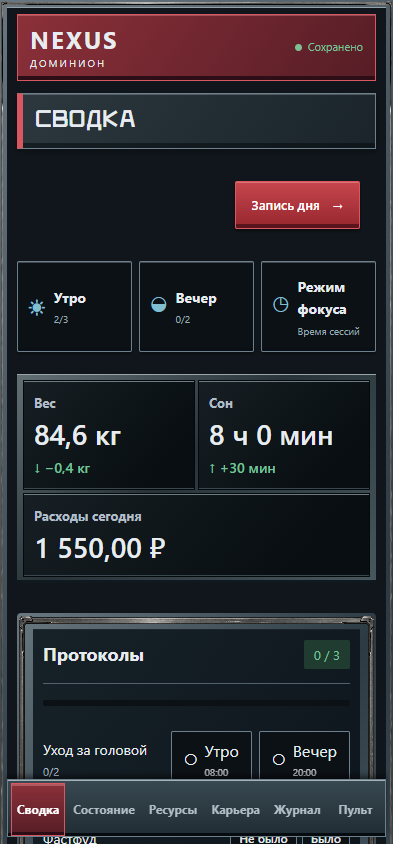
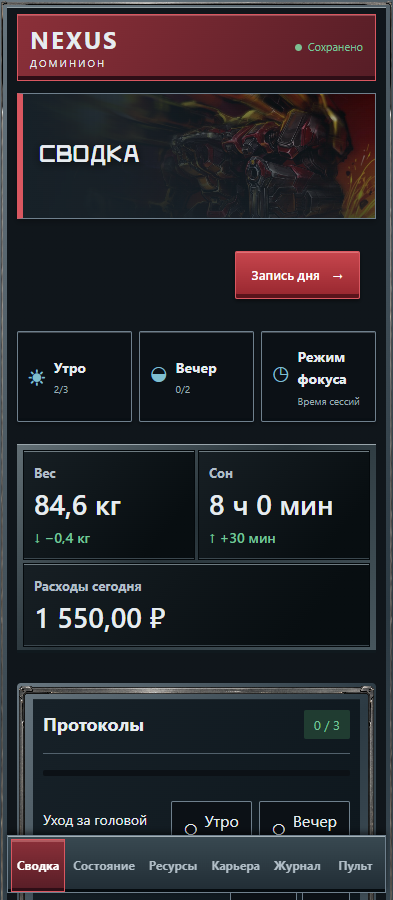
Release Dominion 3.1 with approved Thor heading accent

diff --git a/NEXUS/src/renderer/dominion-material.css b/NEXUS/src/renderer/dominion-material.css
@@ -426,3 +426,40 @@ html[data-theme=dominion][data-platform=android] :is(.card>button,.card .inline>
 /* Mobile base labels have outer margins; checkbox rows keep one 48px target. */
 html[data-theme=dominion] .daily-form .daily-checkbox {margin:0;display:flex;align-items:center;gap:10px}
 html[data-theme=dominion][data-platform=android] .daily-checkbox input[type=checkbox] {min-height:18px;height:18px;width:18px;padding:0;flex:none}
+
+/* User-approved StarCraft accent: packaged locally, limited to Today heading. */
+html[data-theme=dominion] .today-page-head {
+  position: relative;
+  isolation: isolate;
+  overflow: hidden;
+  min-height: 178px;
+  padding: 26px 28px;
+  background: #172128;
+}
+html[data-theme=dominion] .today-page-head::before {
+  content: '';
+  position: absolute;
+  inset: 0;
+  z-index: -1;
+  background: linear-gradient(90deg,#172128 0%,#172128 30%,#172128dc 47%,#17212835 76%,#17212855),
+    linear-gradient(0deg,#172128cc,transparent 45%),
+    url('./assets/thor-header.jpg') right 47% / 700px auto no-repeat;
+}
+html[data-theme=dominion] .today-page-head h1 { text-shadow: 0 2px 8px #000b; }
+html[data-theme=dominion] .today-page-head .button {
+  align-self: flex-end;
+  background: #172128ed;
+  border-color: #7f929e;
+}
+html[data-theme=dominion][data-platform=android] .today-page-head {
+  min-height: 126px;
+  padding: 18px 16px;
+}
+html[data-theme=dominion][data-platform=android] .today-page-head::before {
+  background: linear-gradient(90deg,#172128 0%,#172128ee 28%,#17212899 53%,#17212822 100%),
+    linear-gradient(0deg,#172128bb,transparent),
+    url('./assets/thor-header.jpg') 80% 44% / 380px auto no-repeat;
+}
+@media (forced-colors: active) {
+  html[data-theme=dominion] .today-page-head::before { display: none; }
+}

diff --git a/NEXUS-Android/src/App.tsx b/NEXUS-Android/src/App.tsx
@@ -51,7 +51,7 @@ const monday=(day:string)=>{const date=new Date(`${day}T12:00:00`);date.setDate(
 const habitDone=(habit:Row,log:Row)=>log.status==='done'&&(habit.kind==='avoid'?num(log.value)===0:num(log.value)>=num(habit.target));
 const weeklyComplete=(habit:Row,logs:Row[],day:string)=>habit.period==='weekly'&&logs.some(log=>log.habit_id===habit.id&&str(log.day)>=monday(day)&&str(log.day)<=day&&habitDone(habit,log));
 
-function SectionHeading({title,detail}:{eyebrow:string;title:string;detail?:string}){const navCopy=useNavigationCopy(),id=nav.find(([,label])=>label===title)?.[0];return <div className="heading"><h1>{id?navCopy(id,title,true):title}</h1>{detail&&<p>{detail}</p>}</div>;}
+function SectionHeading({title,detail}:{eyebrow:string;title:string;detail?:string}){const navCopy=useNavigationCopy(),id=nav.find(([,label])=>label===title)?.[0];return <div className={`heading ${id==='today'?'today-page-head':''}`}><h1>{id?navCopy(id,title,true):title}</h1>{detail&&<p>{detail}</p>}</div>;}
 function Card({title,children}:{title:string;children:React.ReactNode}){return <section className="card dominion-frame">{title&&<h2>{title}</h2>}{children}</section>;}
 function Empty({children}:{children:React.ReactNode}){return <p className="empty">{children}</p>;}
 

diff --git a/docs/design/dominion/artwork-candidates-3.1.md b/docs/design/dominion/artwork-candidates-3.1.md
@@ -8,14 +8,16 @@
 
 ## Подборка
 
-Источники проверены 04.10.2026. Это подборка для выбора, файлы не включены в приложение.
+Источники проверены 04.10.2026. Ниже — подборка. Для выпуска 0.7.3 пользователь одобрил отдельную визуальную пробу с другим артом Thor: [источник выбранного изображения](https://www.goodfon.com/games/wallpaper-badfon-starcraft-terran-tor-meh.html). Этот файл включён локально в шапку «Сегодня»; он не приписывается Peter Lee. Остальные кандидаты не включены.
 
 | Вариант | Источник | Применение |
 | --- | --- | --- |
-| Корхал: небоскрёбы и платформы, Thiago Klafke | [Авторское портфолио Legacy of the Void](https://www.thiagoklafke.com/blog/portfolio/starcraft-ii-legacy-of-the-void/) | Основной кандидат CITY: узкий городской фрагмент в верхней части экрана. Стальной фон, индустриальные формы, подсветка окон. |
-| Корхал: жилые здания, Martin Holmberg | [Starcraft LOTV Terrans — авторское портфолио](https://martinholmberg.artstation.com/projects/ykZlx3) | Альтернатива CITY с менее помпезной архитектурой; подходит для бокового акцента. |
-| Менгск и Королевская гвардия | [Официальный материал Blizzard о командире](https://news.blizzard.com/en-us/article/23185584/new-co-op-commander-arcturus-mengsk) | Кандидат MACHINE и небольшой акцент у наставника. Красные пластины и тяжёлая техника поддерживают текущую тему. |
+| Starcraft Thor, Peter Lee | [Конкретная работа в портфолио автора](https://peterconcept.artstation.com/projects/rRo0BJ) | Иллюстрация для MACHINE: тяжёлая техника, красно-серая броня. Только отдельный кадр в шапке или боковой акцент. |
+| Starcraft Battleground Loading Screen, Peter Lee | [Конкретная работа в портфолио автора](https://peterconcept.artstation.com/projects/5EyKz) | Полноценная иллюстрация окружения для загрузочного экрана Heroes of the Storm. Кандидат для широкого акцента; не выдавать за изображение Корхала. |
+| Менгск за трибуной | [Иллюстрация в официальном материале Blizzard](https://news.blizzard.com/de-de/article/10022941/antworten-auf-eure-starcraft-ii-creative-development-fragen-teil-2) | Кандидат для наставника: красная гвардия и имперские знамёна. |
 
-Я бы начал с одного городского фрагмента Корхала на широком экране. На телефоне — небольшой кадр только в шапке, без постоянного рисунка за карточками. Портрет Менгска оставить отдельной опцией для наставника, чтобы основной интерфейс не превращался в галерею.
+Ранее предложенные портфолио Thiago Klafke и Martin Holmberg показывают модели и рендеры игрового окружения. Они могут служить справочником материалов и архитектуры, но не подходят как подборка полноценных иллюстраций. Рекомендация использовать их как готовые арты отозвана.
 
-Для выбранного файла потребуется зафиксировать оригинальный URL, автора, условия использования, размеры, итоговый SHA-256 и локальную оптимизированную версию. Разрешение использовать арт в дизайне не означает, что стороннее изображение становится MIT-кодом. Сейчас в открытые исходники добавлены только ссылки и разрешённая рамка из пользовательского UI-комплекта.
+Для первого акцента предлагается Thor; Менгск — отдельный вариант у наставника. На телефоне использовать небольшой кадр только в шапке, без постоянного рисунка за карточками. Точный арт Корхала пока не выбран.
+
+Для включённого Thor источник, размер и SHA-256 зафиксированы в `resources.json`, уведомление о сторонних правах — в `NEXUS/src/renderer/assets/THIRD-PARTY-ART.md`. Автор этой конкретной иллюстрации не подтверждён. Разрешение использовать арт в дизайне не означает, что стороннее изображение становится MIT-кодом.

diff --git a/README.md b/README.md
@@ -18,7 +18,7 @@
 
 ## Установка
 
-Готовые сборки размещаются в [Releases](https://github.com/CaptainReinor/nexus/releases). Windows: запустить установщик. Android: установить APK. Linux: разрешить выполнение файла AppImage и запустить его без установки. Версии: **Windows 0.7.2**, **Android 0.7.2**, **Linux 0.4.8**. [Запуск на Linux](docs/linux.md). [Обновления приложения](docs/updates.md).
+Готовые сборки размещаются в [Releases](https://github.com/CaptainReinor/nexus/releases). Windows: запустить установщик. Android: установить APK. Linux: разрешить выполнение файла AppImage и запустить его без установки. Версии: **Windows 0.7.3**, **Android 0.7.3**, **Linux 0.4.8**. [Запуск на Linux](docs/linux.md). [Обновления приложения](docs/updates.md).
 
 При первом запуске введите код доступа. Адрес сервера уже настроен; приглашение выдаёт владелец NEXUS. Доступ к чужим данным код не предоставляет. На новом аккаунте сразу есть счёт «Дебет» и девять категорий расходов.
 
@@ -85,4 +85,4 @@ python3 -m unittest -q test_nexus_backup test_accounts
 
 ## Лицензия
 
-MIT. Лицензии сторонних зависимостей остаются за их авторами.
+Код — MIT. Лицензии сторонних зависимостей остаются за их авторами. Сторонние изображения и шрифты не распространяются под MIT; происхождение графики описано в [ресурсах дизайна](docs/design/dominion/resources.json) и [уведомлении об арте](NEXUS/src/renderer/assets/THIRD-PARTY-ART.md).

diff --git a/docs/design/dominion/implementation-3.1.md b/docs/design/dominion/implementation-3.1.md
@@ -20,7 +20,7 @@
 
 - Ползунки под графиками не возвращены. Инспекция мышью, касанием и клавиатурой сохранена.
 - «Вопрос вечера» и его отдельный ответ убраны из обеих платформ и списка шагов. Вечерний распорядок с уходом и записью дня сохранён. Старые составы игнорируют снятый шаг; при сохранении он удаляется из состава. Исторические ответы остаются совместимыми с копиями и контекстом наставника.
-- Реальные арты StarCraft допустимы. [Подборка источников и предложения](artwork-candidates-3.1.md). В этой сборке используется предусмотренная документом стальная оболочка: CITY/MACHINE не подменены ИИ-сценами.
+- Реальные арты StarCraft допустимы. После визуальной пробы пользователь выбрал Thor: локальный акцент в шапке «Сегодня», отдельно от поверхностей с данными. [Подборка и происхождение](artwork-candidates-3.1.md). Остальные поверхности сохраняют стальную оболочку. CITY/MACHINE не подменены ИИ-сценами.
 
 ## Проверки
 

diff --git a/NEXUS/src/renderer/assets/THIRD-PARTY-ART.md b/NEXUS/src/renderer/assets/THIRD-PARTY-ART.md
@@ -1,0 +1,11 @@
+# Thor: сторонняя иллюстрация
+
+`thor-header.jpg` — уменьшенная локальная копия иллюстрации Thor из StarCraft. Добавлена в шапку темы «Доминион» по выбору владельца проекта. Это другой арт, чем ранее предложенная работа Peter Lee; автор этой конкретной иллюстрации не подтверждён.
+
+Источник: https://www.goodfon.com/games/wallpaper-badfon-starcraft-terran-tor-meh.html
+
+Исходное изображение: https://img.goodfon.com/original/1920x1200/8/28/badfon-starcraft-terran-tor-meh.jpg
+
+Дата получения: 04.10.2026. Уменьшение до 1400×875, JPEG quality 83. Цвета и композиция не изменены; затемнение выполняется стилями интерфейса.
+
+MIT-лицензия кода приложения не распространяется на эту иллюстрацию. Права на изображение остаются у его правообладателей; наличие файла в репозитории не предоставляет отдельного права на его коммерческое использование или переиздание.

diff --git a/CHANGELOG.md b/CHANGELOG.md
@@ -1,5 +1,12 @@
 # Изменения
 
+## Windows / Android 0.7.3 — 04.10.2026
+
+- Оформление «Доминион» обновлено по документу 3.1: стальные рамки, согласованные панели и навигация, адаптация к узким экранам.
+- В шапку «Сегодня» добавлен выбранный арт Thor. Изображение хранится в приложении, загрузка из интернета не требуется.
+- Удалён отдельный «Вопрос вечера». Вечерний распорядок с уходом и записью дневника сохранён.
+- Стандартная тема и данные пользователей сохранены. Обновление сервера не требуется.
+
 ## Windows / Android 0.7.2 — 04.10.2026
 
 - Дневной и недельный наставник учитывает исходные тексты дневника, комментарии к операциям, тренировкам и инвестициям, цели, планы, уход, показатели и рабочие записи.
